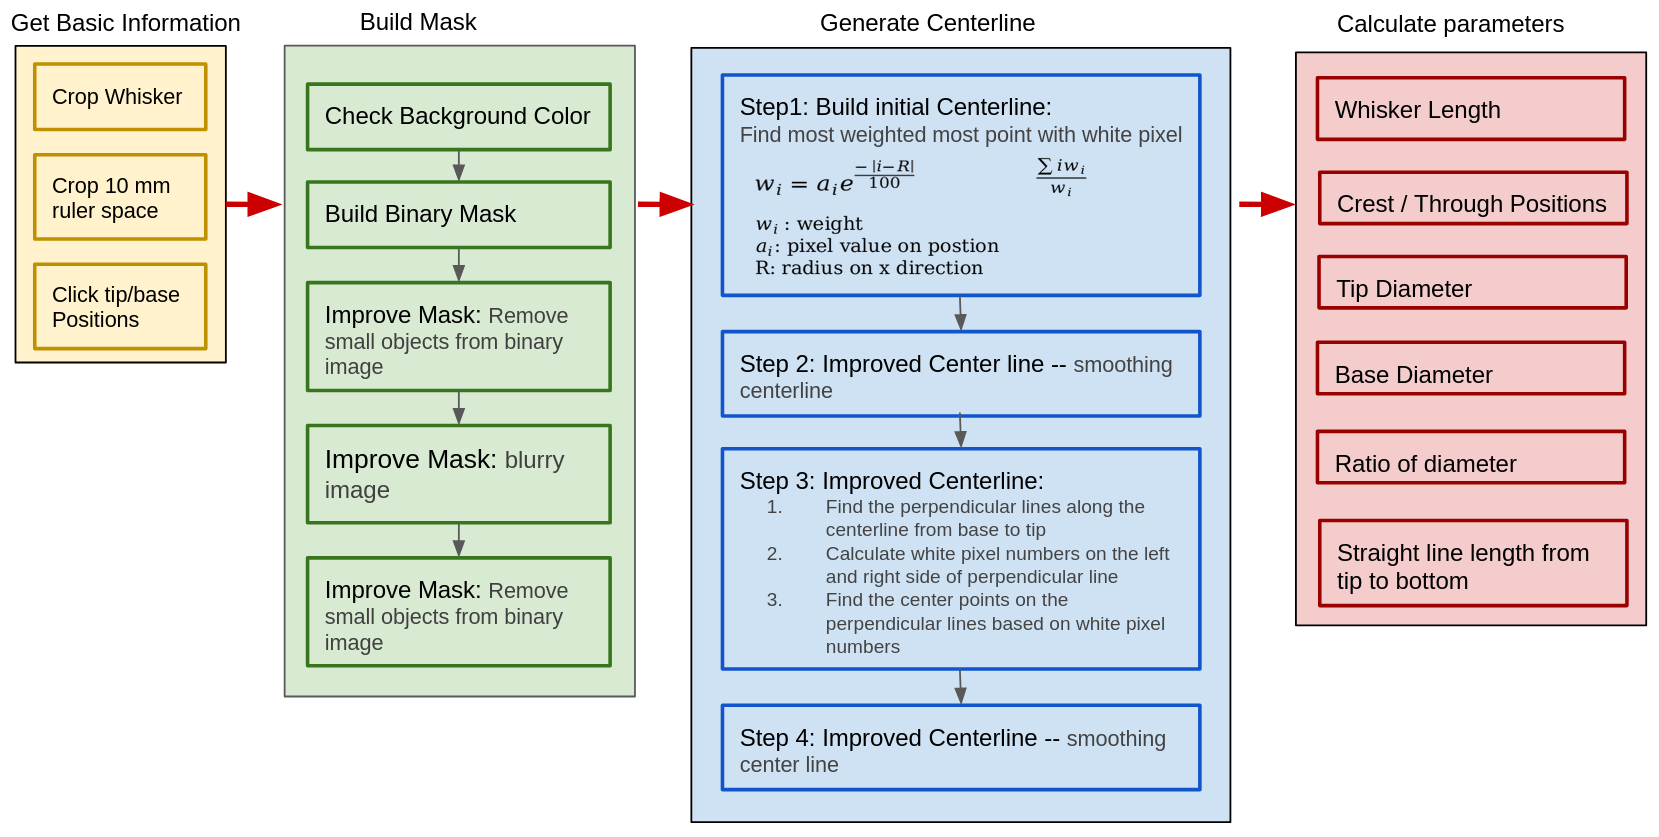
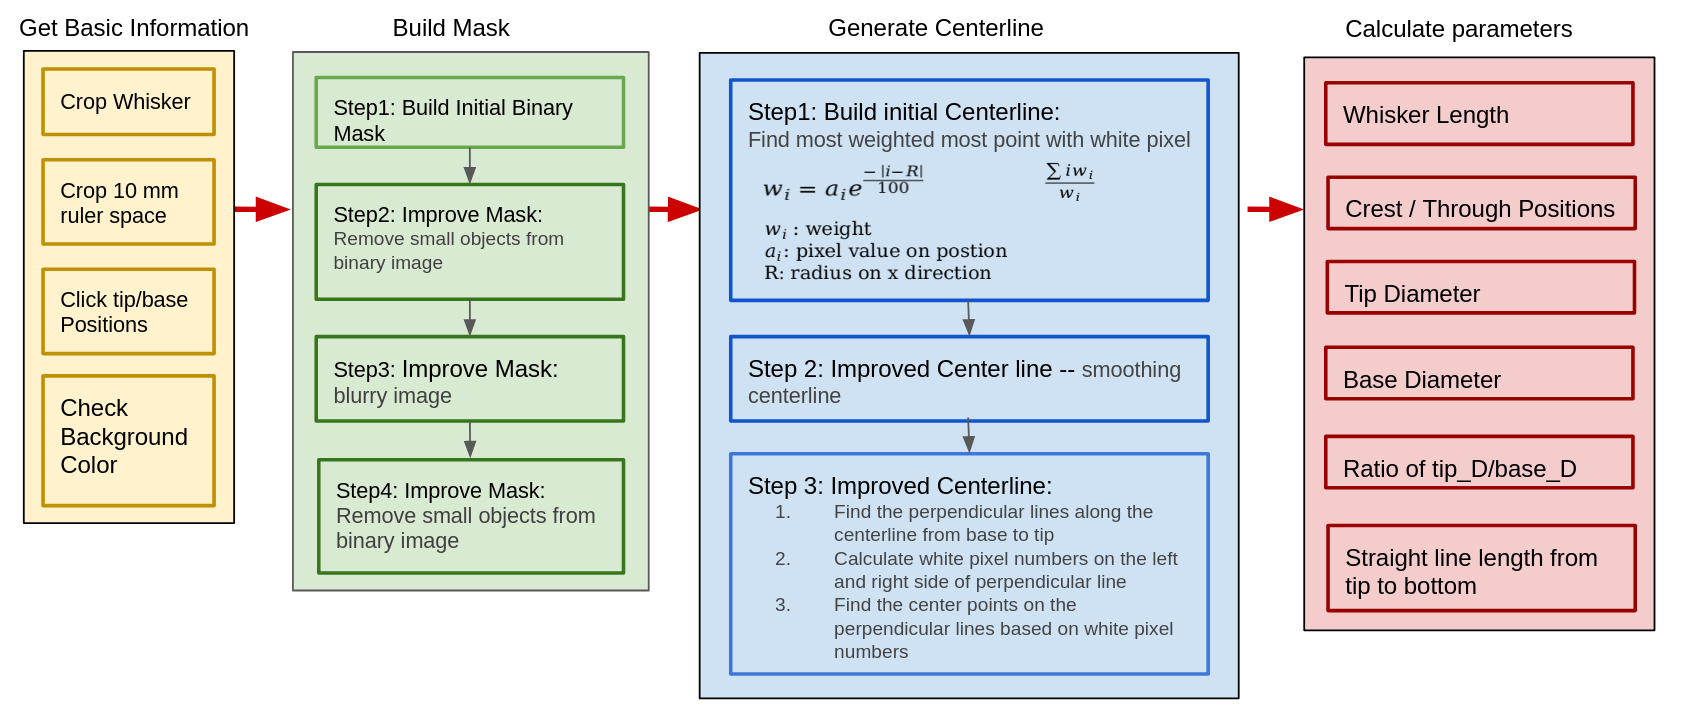
update flow chart

diff --git a/_posts_h/2020-09-12-Geometric_Parameter_Extraction.md b/_posts_h/2020-09-12-Geometric_Parameter_Extraction.md
@@ -1,6 +1,6 @@
 ---
 layout: inner
-title: 'Geometric Morphometrics demonstrate the shape of seal whiskers'
+title: 'Geometric Morphometrics Demonstrate the Seal Whiskers Parameters from Images'
 date: 2020-10-25 14:15:00
 categories: development
 type: project
@@ -9,13 +9,13 @@ featured_image: 'https://github.com/luxi-huang/Sensor-Fusion-Realsense-Camera/bl
 lead_text: 'Using computer vision technology to extract 2D seal whiskers' parameter base on the Geometric Morphometrics method'
 ---
 
-# Geometric Parameter Extraction on 2D Seal Whiskers
+# Geometric Morphometrics Demonstrate the Seal Whiskers Parameters from Images 
 
 ## Overview 
 
-Whiskers are important sensor for seal detecting vibrotactile information from the environment. Seal whiskers are demonstrated the diversity of shapes and most of them are exhibit a beaded morphology with repeating sequence of crests and troughs along. Currently it is unclear the diversity of shape affects environmental signal modulation. In order to get some clues of it, this project implement geometric morphometrics method to demonstrate the 2D shape of whiskers.   
+Whiskers are important sensor for seal detecting vibrotactile information from the environment. Seal whiskers are demonstrated the diversity of shapes and most of them are exhibit a beaded morphology with repeating sequence of crests and troughs along. Currently it is unclear the diversity of shape affects environmental signal modulation. In order to get some clues of it, this project implement geometric morphometrics method to demonstrate the shape of whiskers.   
  
-The 2D whiskers graphs are in two kinds of background - green and black, as shown on figure 1 and figure 2. Rulers are placed next to whisker for the purpose of referencing the size of whiskers.  The goal for the project is to find out the parameters as shown on table 1. 
+The whiskers images are in two kinds of background - green and black, as shown on figure 1 and figure 2. Rulers are placed next to whisker for the purpose of referencing the size of whiskers.  The goal of the project is to extract 2D parameters from seal whiskers from as shown on table 1. 
 
 <p align="middle"> <img src="https://github.com/luxi-huang/portfolio/blob/master/img/posts/Whisker/green_bg.png?raw=true" alt="drawing" height="400"/> </> <img src="https://github.com/luxi-huang/portfolio/blob/master/img/posts/Whisker/back_bg.png?raw=true" alt="drawing" height="400"/> </p>  
 
@@ -75,6 +75,16 @@ The original graph has two different background: black and green. The programme 
 #### 2b. Build Binary Mask 
 If the background is in green color, then we would change every pixel color value to 0 if it is in background green color range, and change its color value to 1 if it is not under background green color range. The result of initial binary mask as shown on figure 3 left side. 
 
-#### 2c. Improve mask - Remove small from binary image
+<p align="middle"> <img src="https://github.com/luxi-huang/portfolio/blob/master/img/posts/Whisker/mask_only_1.png?raw=true" alt="drawing" height="400"/>  <img src="https://github.com/luxi-huang/portfolio/blob/master/img/posts/Whisker/mask_only_2.png?raw=true" alt="drawing" height="400"/> 
+
+
+*<center>Figure 3: Build initial image(right) and improve image by removing its small objects) </center>*
+
+#### 2c. Improve mask - Remove small objects from binary image
+since the background not only contains pure green color (figure 1 left side graph), it also has some noise colors. It cause the initial binary image has many noise objects beside whiskers. Base on the area of objects on the image, if the area is small than the threshold, then we would change its color to opposite value. The result as shown on figure 3 right site graph
+
+#### 2d. Improve mask - build blurry image
+
+
 
 
